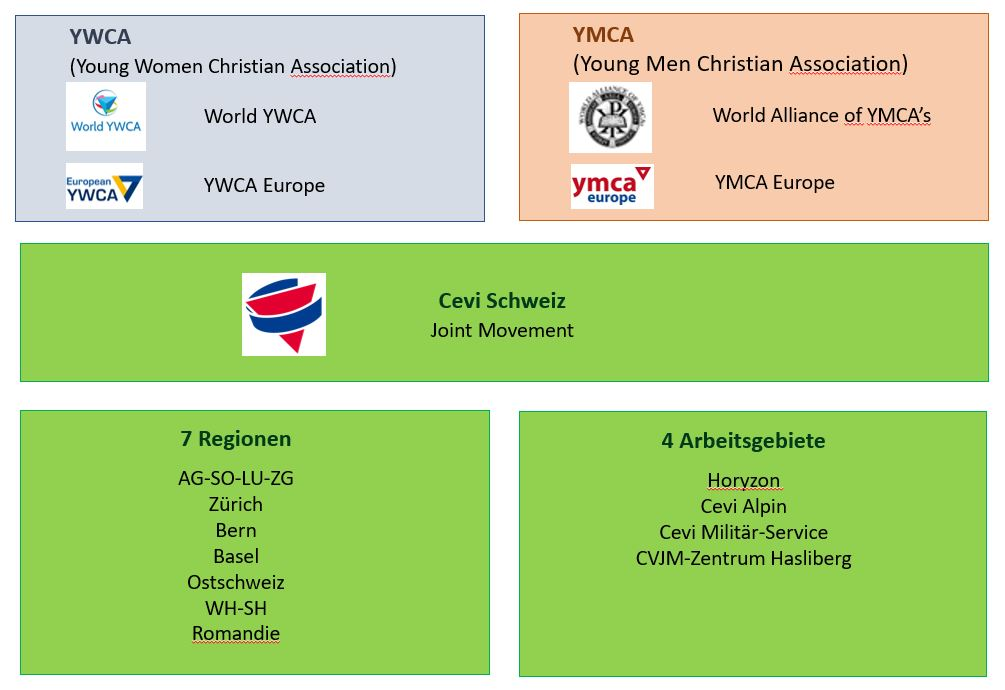
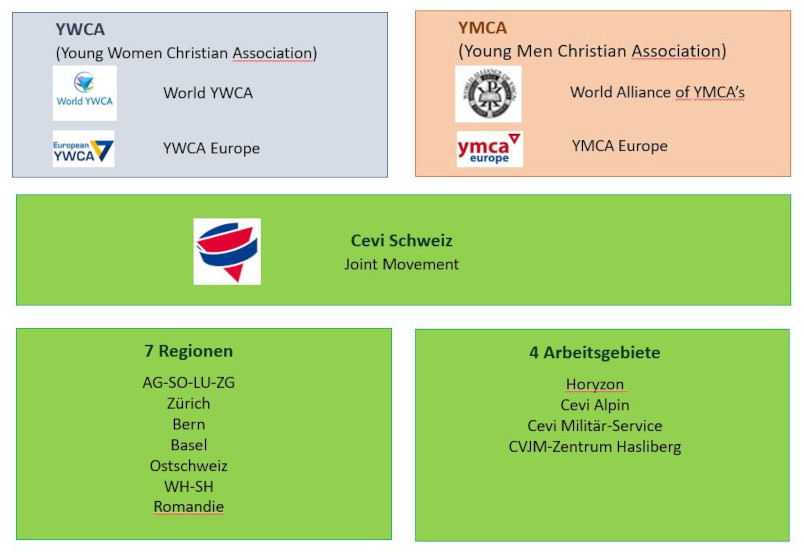
optimize images for mobile

diff --git a/src/app/glk/cevi-schweiz-task/cevi-schweiz-task.component.html b/src/app/glk/cevi-schweiz-task/cevi-schweiz-task.component.html
@@ -6,7 +6,7 @@
   Verband anders als in den meisten anderen Ländern als Joint Nation geführt (d. h. Zusammenlegung des Verbanders für Frauen und Männer).
   Zu den 7 Regionen und 4 Arbeitsgebieten, erfährst du an den anderen Posten mehr. </p>
 
-<img src="assets/cevi_organisationen.jpg" />
+<img src="assets/cevi_organisationen.jpg" style="max-width: 100%; height: auto;" />
 
 <p>Die Webseite des Cevi Schweiz findest du unter folgenden Link: <a href="https://www.cevi.ch/home/" target="_blank">https://www.cevi.ch/home/</a>. Klicke dich durch folgende Seiten.</p>
 

diff --git a/src/app/glk/horyzon-task/horyzon-task.component.html b/src/app/glk/horyzon-task/horyzon-task.component.html
@@ -1,6 +1,6 @@
 <h1>Stiftung Horyzon, die Schweizer Entwicklungsorganisation für Jugendliche</h1>
 
-<img src="./assets/logos/Horyzon.png" width="400" />
+<img src="./assets/logos/Horyzon.png" style="max-width: 100%; height: auto;" />
 
 <p><strong>Horyzon engagiert sich für benachteiligte Jugendliche in Entwicklungs- und Krisenregionen</strong></p>
 
